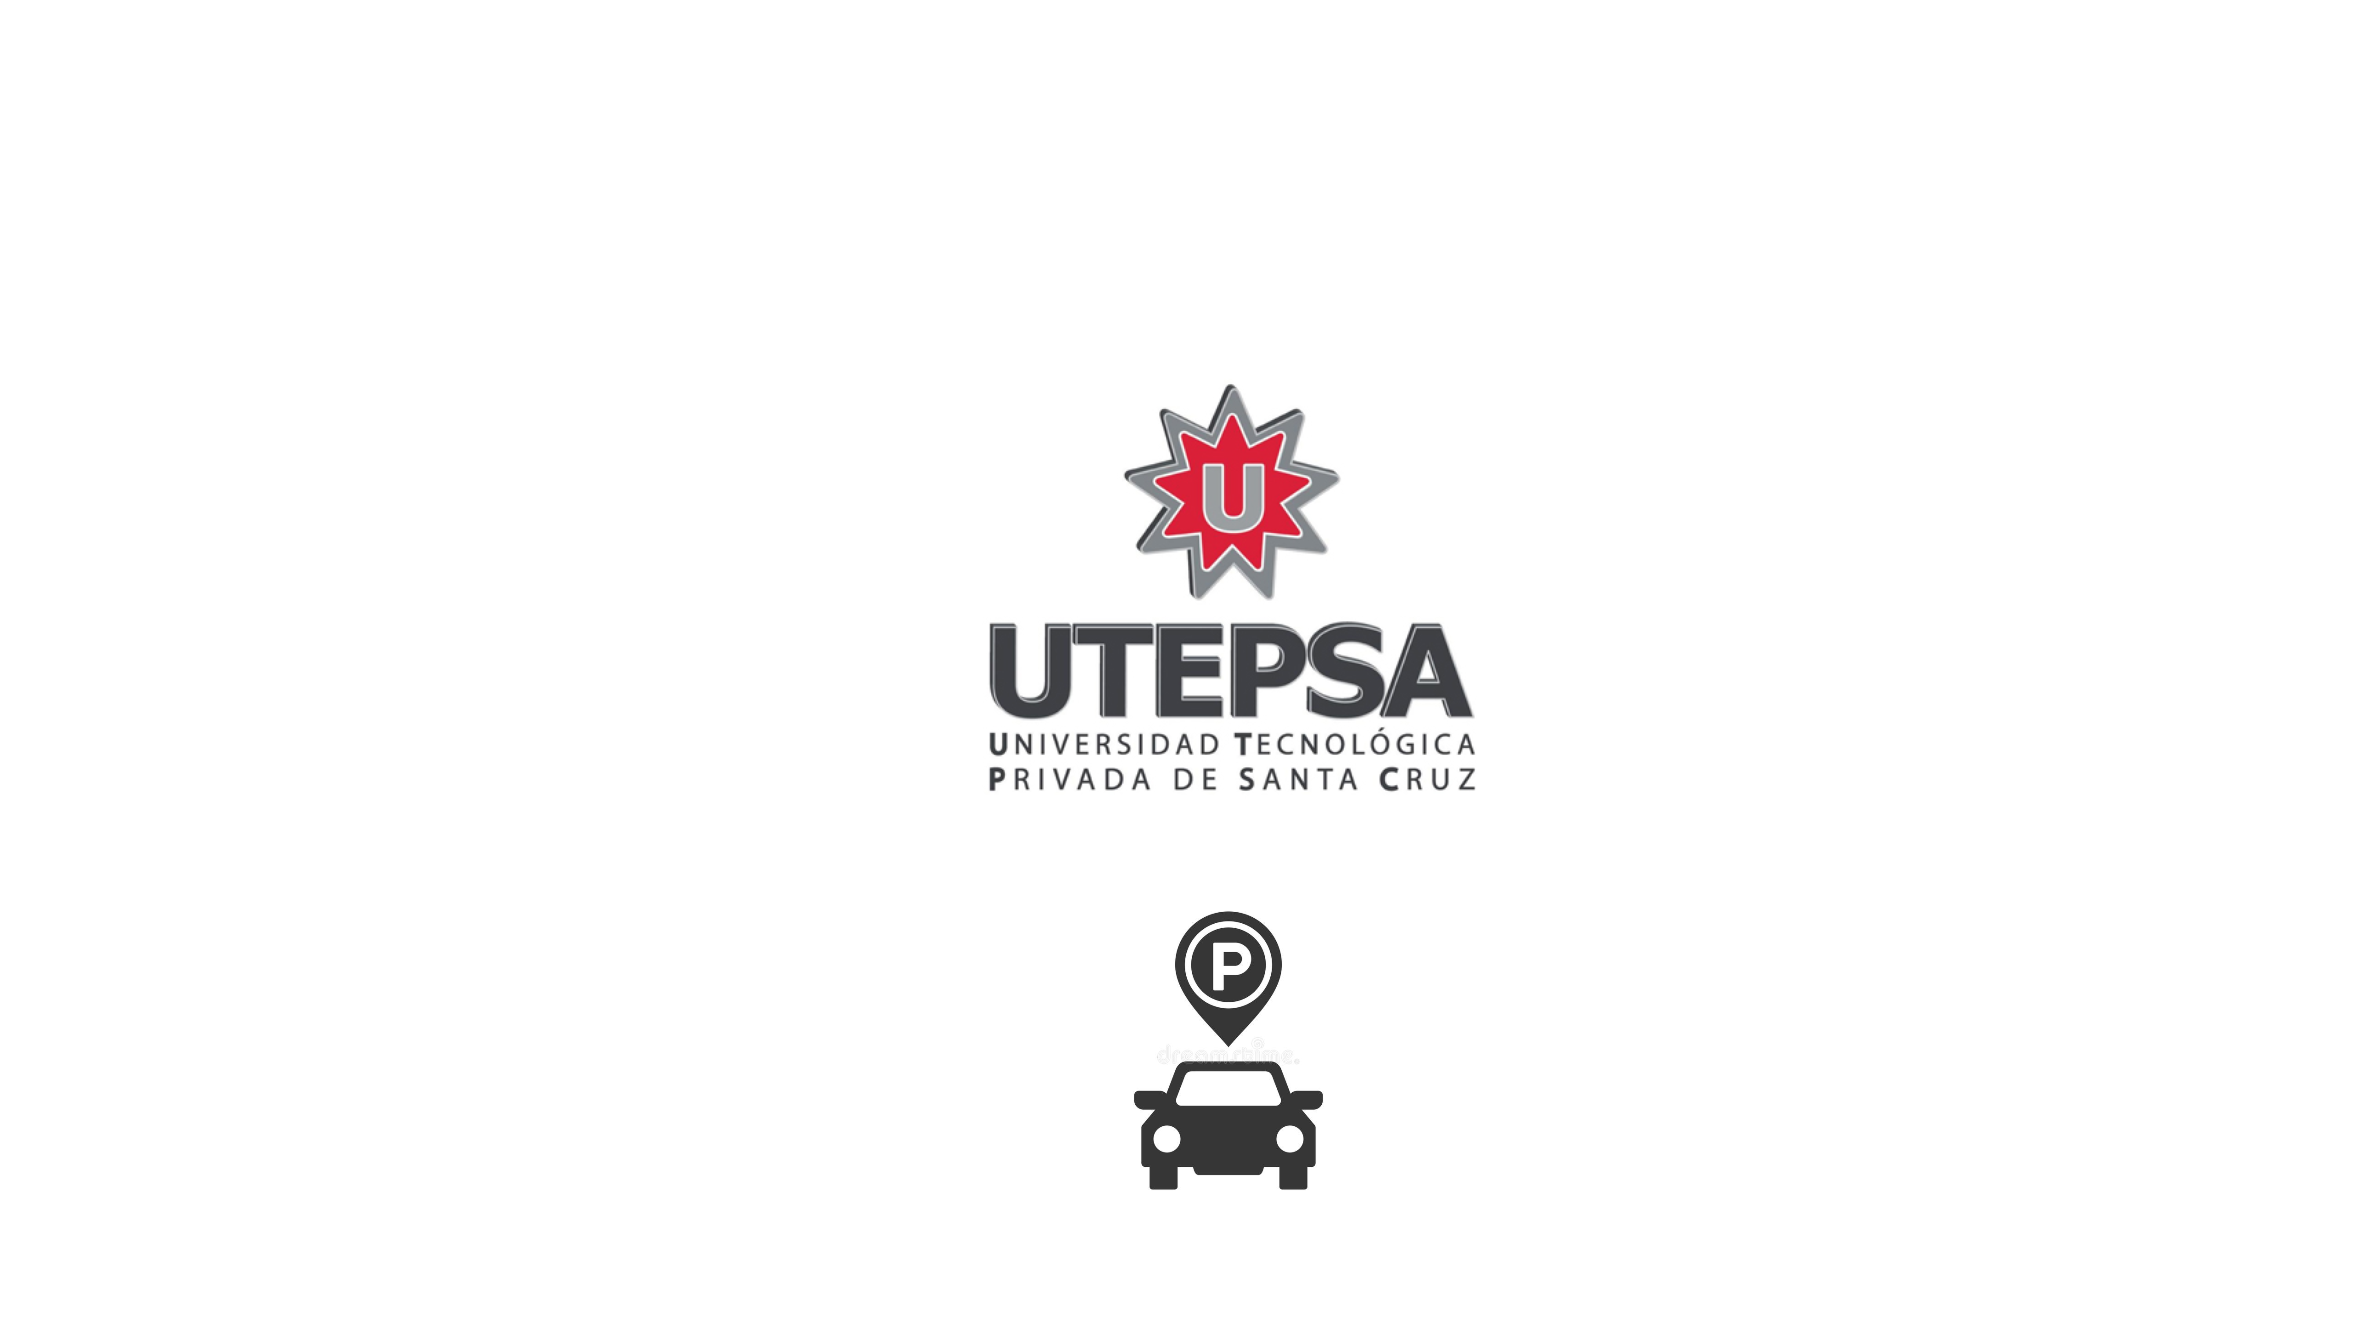
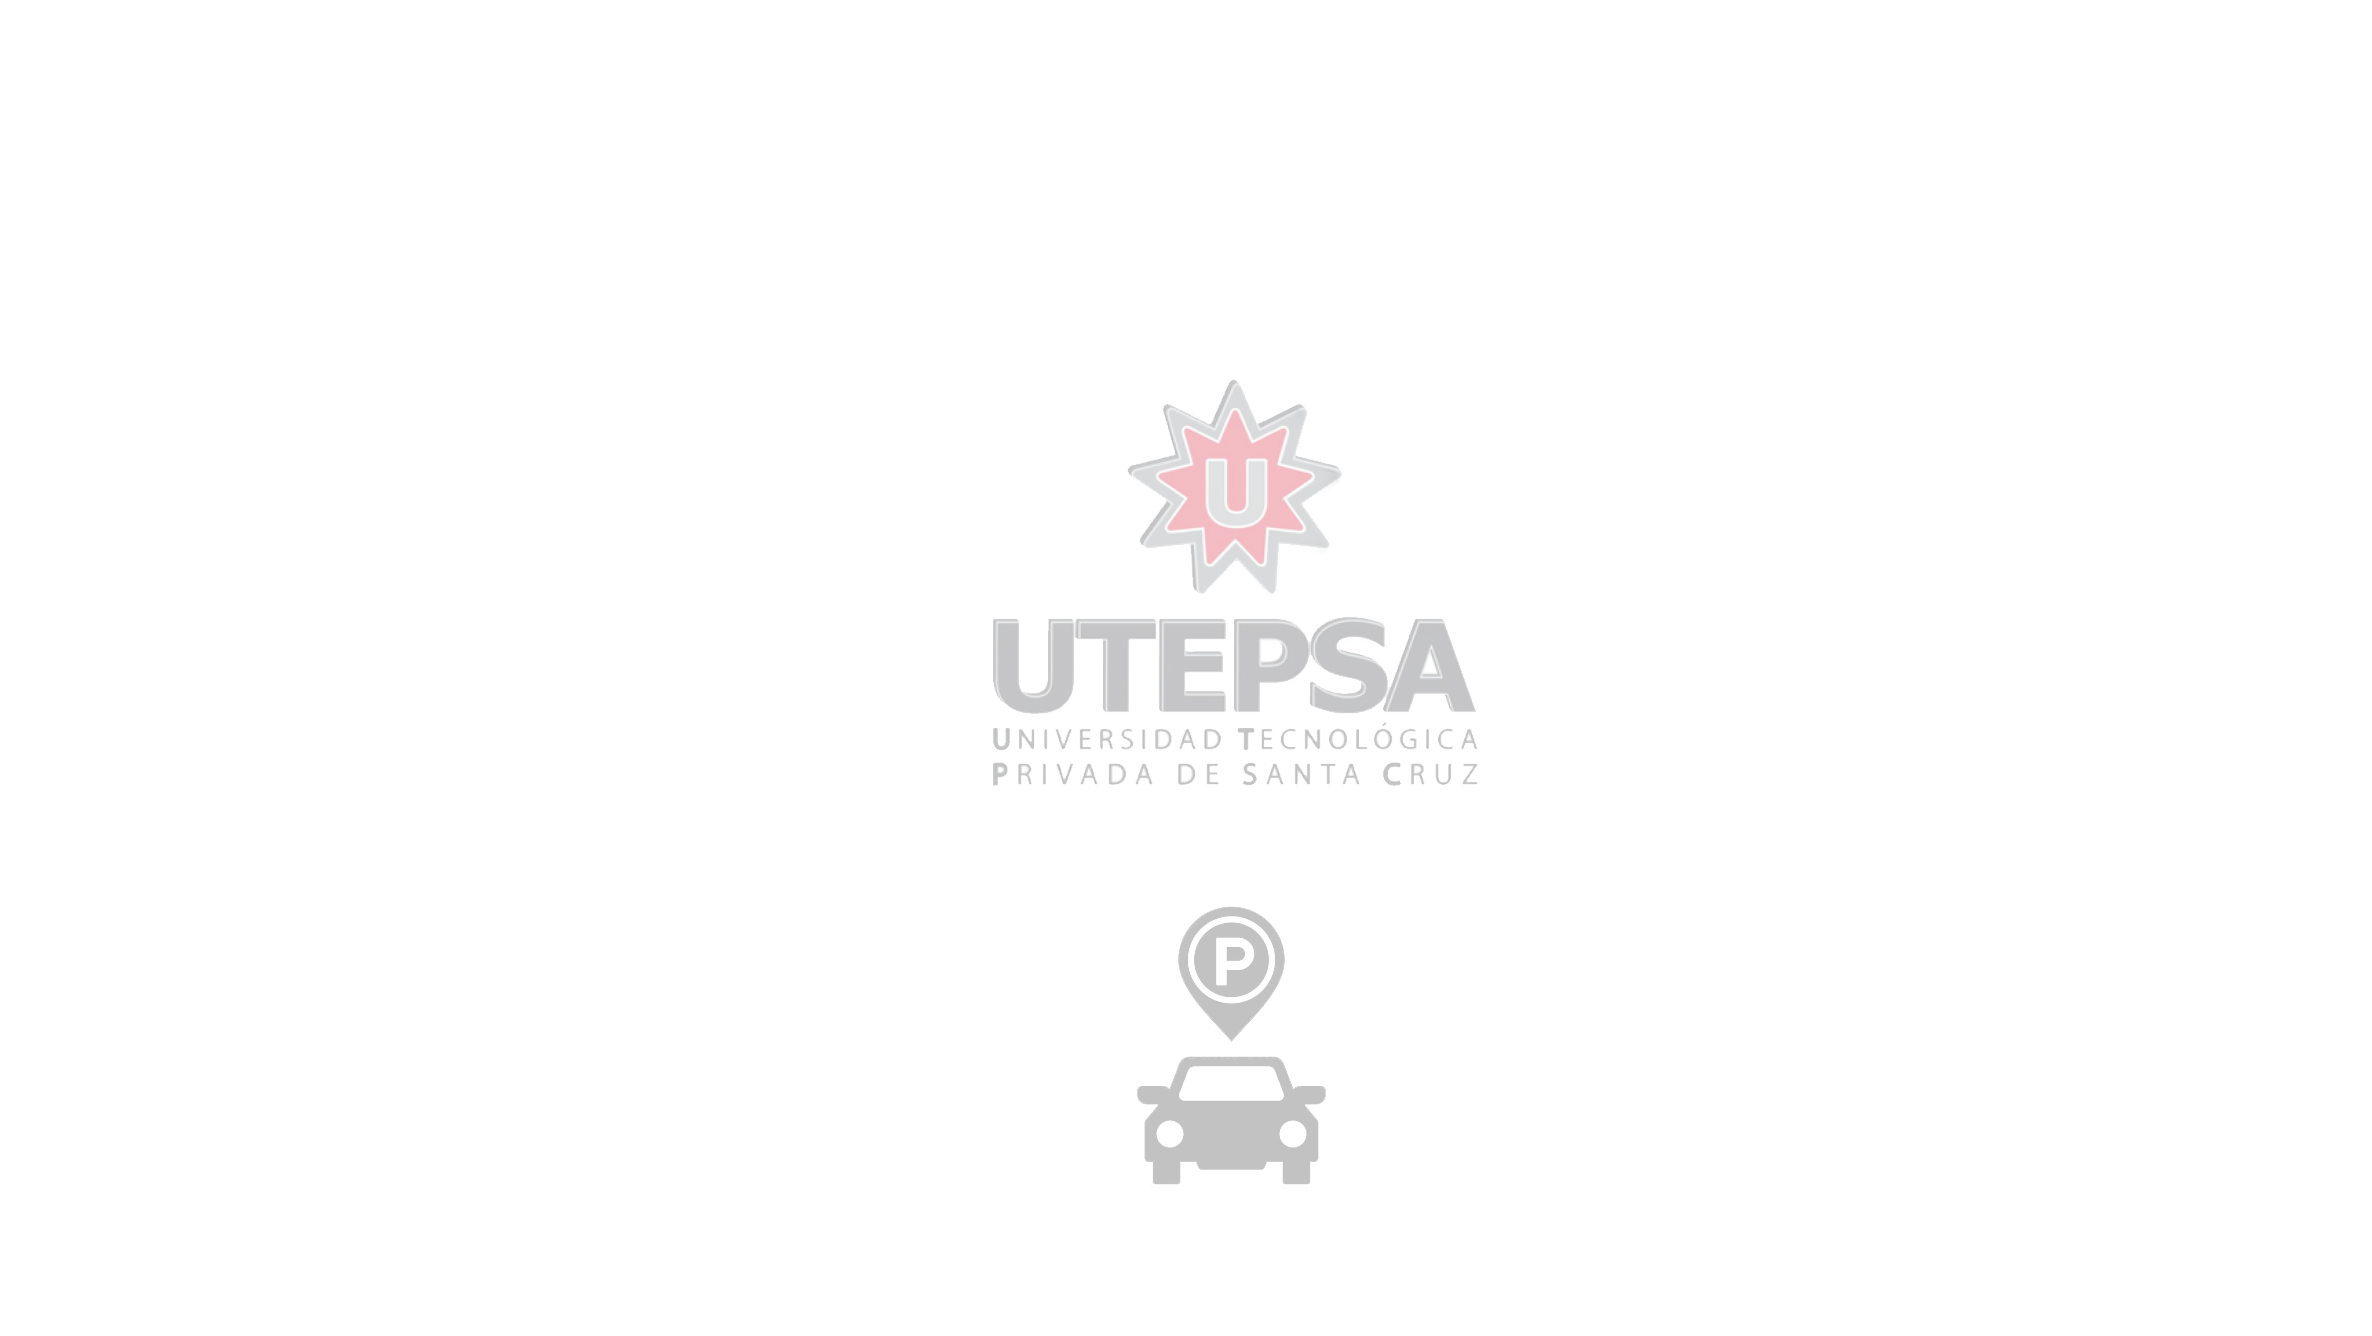
cambios colores fuentes

Changed region(s): [[0.4056, 0.2762, 0.6239, 0.6138], [0.468, 0.6751, 0.5616, 0.89]]

diff --git a/my_app/templates/comprar_paquete.html b/my_app/templates/comprar_paquete.html
@@ -1,27 +1,44 @@
 {% extends 'template.html' %}
 
 {% block content %}
-<div class="container text-light">
+<div class="container fs-3">
     <div class="row">
         <div class="col-md-6">
             <h1>Comprando: {{paquete.nombre}}</h1>
             <img src="{{paquete.qr.url}}" width="300" height="300">
+            <div class="fs-5">
+                <p>Pasos para la transferencia:</p>
+                <p>
+                    paso1
+                    escanea el codigo qr para realizar el pago
+                </p>
+                <p>
+                    paso2
+                    saca una captura de tu comprobante de pago
+                </p>
+                
+                <p>
+                    paso3
+                    sube la imagen de tu comprobante de pago y aguarde su activacion
+                </p>
+            </div>
+            
         </div>
         <div class="col-md-4">
             <h1>Datos del paquete</h1>
             Descripcion breve:
             <p>{{paquete.descripcion}}</p>
             Precio del paquete:
-            <p>{{paquete.precio}}</p>
+            <p>{{paquete.precio}} Bs</p>
             <form action="/comprar/{{paquete.id}}" method="post" enctype="multipart/form-data">
                 {% csrf_token %}
                 <input type="hidden" name="id" value="{{paquete.id}}">
                 <div class="mb-3">
-                    <label for="comprobante" class="form-label">Comprobante del pago</label>
+                    <label for="comprobante" class="form-label">Comprobante del pago:</label>
                     <input class="form-control" type="file" id="comprobante" name="comprobante" required>
                 </div>
 
-                <button type="submit" class="btn btn-success w-100">Comprar paquete</button>
+                <button type="submit" class="btn btn-black btn-lg w-100">Comprar paquete</button>
             </form>
         </div>
         <div class="col-md-2">

diff --git a/my_app/templates/crear_paquete.html b/my_app/templates/crear_paquete.html
@@ -24,19 +24,19 @@
             <input type="text" class="form-control" id="nombre" name="nombre">
         </div>
         <div class="mb-3">
-            <label for="descripcion" class="form-label">Descripcion</label>
+            <label for="descripcion" class="form-label">Descripcion del paquete</label>
             <input type="text" class="form-control" id="descripcion" name="descripcion">
         </div>
         <div class="mb-3">
-            <label for="precio" class="form-label">Precio</label>
+            <label for="precio" class="form-label">Precio del paquete</label>
             <input type="text" class="form-control" id="precio" name="precio">
         </div>
         <div class="mb-3">
-            <label for="qr" class="form-label">Qr</label>
+            <label for="qr" class="form-label">Qr de pago</label>
             <input class="form-control" type="file" id="qr" name="qr">
         </div>
         <div class="mb-3">
-            <label for="foto" class="form-label">Foto de perfil</label>
+            <label for="foto" class="form-label">Foto paquete</label>
             <input class="form-control" type="file" id="foto" name="foto">
         </div>
         <button type="submit" class="btn btn-black btn-lg btn-block">Crear Paquete</button>

diff --git a/my_app/templates/marcar_salidas.html b/my_app/templates/marcar_salidas.html
@@ -18,6 +18,7 @@
         <div class="row">
             {% if detalle_parqueos %}
                 {% for detalle_parqueo in detalle_parqueos %}
+                <br>
                 <div class="card text-center">
                     <div class="card-header">
                         Detalle Parqueo {{ detalle_parqueo.parqueo.nombre }}
@@ -31,12 +32,13 @@
                             {{ detalle_parqueo.vehiculo.color }}
                         </p>
                         <img src="{{ detalle_parqueo.vehiculo.foto.url }}" width="100" height="100">
-                        <a href="/marcar_salida/{{ detalle_parqueo.id }}" class="btn btn-primary w-100">Marcar Salida</a>
+                        <a href="/marcar_salida/{{ detalle_parqueo.id }}" class="btn btn-black btn-lg w-100">Marcar Salida</a>
                     </div>
                     <div class="card-footer text-muted">
                         Fecha Entrada: {{ detalle_parqueo.fecha_entrada }}
                     </div>
                 </div>
+                <br>
                 {% endfor %}
             {% else %}
                 <h1>No tienes movilidades parqueadas!</h1>

diff --git a/my_app/templates/activaciones.html b/my_app/templates/activaciones.html
@@ -20,8 +20,7 @@
 <div class="container text-dark">
     {% if compras %}
         {% for compra in compras %}
-        {{compra.user}}
-        {{compra.paquete}}
+        <br>
         <div class="card text-center">
             <div class="card-header">
                 {{compra.user.first_name}} {{compra.user.last_name}} ({{compra.user.tipo}}) - {{compra.paquete.nombre}} -
@@ -35,7 +34,7 @@
                     {{compra.paquete.descripcion}}
                 </p>
                 <p>
-                    <a href="{{compra.comprobante.url}}" class="btn btn-danger">Ver comprobante</a>
+                    <a href="{{compra.comprobante.url}}" class="btn btn-black btn-lg">Ver comprobante</a>
                 </p>
             </div>
             <div class="card-footer text-muted text-uppercase">
@@ -51,6 +50,7 @@
                 {% endif %}
             </div>
         </div>
+        <br>
         {% endfor %}
     {% else %}
         <h1>No hay Activaciones pendientes</h1>

diff --git a/my_app/templates/parquear.html b/my_app/templates/parquear.html
@@ -1,10 +1,10 @@
 {% extends 'template.html' %}
 
 {% block content %}
-<div class="container text-light">
+<div class="container fs-3">
     <div class="row">
         <div class="col-md-6">
-            <h1>Parqueando: {{parqueo.nombre}}</h1>
+            <h1>Parqueando en: {{parqueo.nombre}}</h1>
         </div>
         <div class="col-md-4">
             <h1>Datos del Parqueo</h1>
@@ -39,7 +39,7 @@
                     </select>
                 </div>
 
-                <button type="submit" class="btn btn-success w-100">Confirmar Parqueo</button>
+                <button type="submit" class="btn btn-black btn-lg w-100">Confirmar Parqueo</button>
             </form>
         </div>
     </div>

diff --git a/my_app/templates/parqueo.html b/my_app/templates/parqueo.html
@@ -40,7 +40,7 @@
                         <p class="card-text">
                             {{ parqueo.descripcion }}
                         </p>
-                        <a class="btn btn-primary w-100" href="/parquear/{{parqueo.id}}" role="button">Parquear</a>
+                        <a class="btn btn-black btn-lg w-100" href="/parquear/{{parqueo.id}}" role="button">Parquear</a>
                     </div>
                 </div>
                 {% else %}

diff --git a/my_app/templates/mis_suscripciones.html b/my_app/templates/mis_suscripciones.html
@@ -35,7 +35,9 @@
                 </div>
                 <div class="card-footer text-muted text-uppercase">
                     {% if compra.activo %}
-                        Activo
+                        <p class="text-success fs-4">
+                            Suscripcion {{compra.paquete.nombre}} "activada"
+                        </p>    
                     {% else %}
                         Inactivo
                     {% endif %}

diff --git a/my_app/templates/ver_salidas.html b/my_app/templates/ver_salidas.html
@@ -20,7 +20,7 @@
             <label for="fecha_salida">Seleccione la fecha de Salida</label>
             <input name="fecha_salida" id="fecha_salida" type="date" required/>
         </div>
-        <button type="submit" class="btn btn-danger w-100">Buscar</button>
+        <button type="submit" class="btn btn-black btn-lg w-100">Buscar</button>
     </form>
 
     {% if not detalle_parqueos %}

diff --git a/my_app/templates/navbar.html b/my_app/templates/navbar.html
@@ -1,6 +1,6 @@
 {% load static %}
 <nav class="navbar navbar-light navbar-expand-lg" style="background-color: #cc102c;">
-    <div class="container-fluid fs-4">
+    <div class="container-fluid fs-4 font-weight-bold">
         <a class="navbar-brand" href="/">
             <img src="{% static 'files/utepsa-logo.png'%}" width="200" height="70">
         </a>

diff --git a/my_app/templates/reportes_suscripciones_compradas.html b/my_app/templates/reportes_suscripciones_compradas.html
@@ -28,7 +28,7 @@
             <br>
             <input name="fecha_fin" id="fecha_fin" type="date" required />
         </div>
-        <button type="submit" class="btn btn-danger w-100">Buscar</button>
+        <button type="submit" class="btn btn-black btn-lg w-100">Buscar</button>
     </form>
 
     {% if not compras %}

diff --git a/my_app/views.py b/my_app/views.py
@@ -1,4 +1,5 @@
 from datetime import datetime
+from email.errors import MessageError
 from functools import total_ordering
 from django.shortcuts import render, redirect
 from django.contrib.auth import authenticate, login, logout
@@ -114,7 +115,7 @@ def registrar_vehiculo_view(request):
         new_vehiculo = Vehiculo.objects.create(placa=placa, modelo=modelo, color=color, user=user, tipo=tipo, foto=foto)
         new_vehiculo.save()
         messages.success(request, "Vehiculo registrado exitosamente!")
-        return render(request, "registrar_vehiculo.html")
+        return redirect("mis_vehiculos")
 
 def mis_vehiculos_view(request):
     vehiculos = request.user.vehiculo_set.all()
@@ -144,17 +145,23 @@ def comprar_view(request, id):
 
         compra_paquete.save()
         messages.success(request, "Compra realizada exitosamente!")
-        return render(request, "comprar_paquetes.html")
+        return redirect("mis_suscripciones")
 
 def mis_suscripciones_view(request):
-    compras = CompraPaquete.objects.filter(user=request.user, activo=True)
-    if not compras:
+
+    compras_pendientes = CompraPaquete.objects.filter(user=request.user, pendiente=True)
+    if compras_pendientes:
+        messages.warning(request, "Tu suscripcion esta siendo revisada para su activacion contacte con el administrador 7701626")
+        return redirect("comprar_paquetes")
+
+    compras_activas = CompraPaquete.objects.filter(user=request.user, activo=True, pendiente=False)
+    if not compras_activas:
         messages.warning(request, "No tienes suscripciones registradas compra almenos una suscripcion para continuar")
         return redirect("comprar_paquetes")
-    return render(request, "mis_suscripciones.html", {"compras": compras})
+    return render(request, "mis_suscripciones.html", {"compras": compras_activas})
 
 def activaciones_view(request):
-    compras = CompraPaquete.objects.filter(activo=False)
+    compras = CompraPaquete.objects.filter(pendiente=True)
     return render(request, "activaciones.html", {"compras": compras})
 
 def suscripciones_vencidas_view(request):
@@ -178,6 +185,7 @@ def activar_view(request, id):
     if request.method == "POST":
         compra_paquete = CompraPaquete.objects.get(id=id)
         compra_paquete.activo = True
+        compra_paquete.pendiente = False
         compra_paquete.user.suscrito = True
         compra_paquete.user.save()
         compra_paquete.save()

diff --git a/my_app/migrations/0001_initial.py b/my_app/migrations/0001_initial.py
@@ -1,4 +1,4 @@
-# Generated by Django 3.2.9 on 2022-01-20 18:26
+# Generated by Django 3.2.9 on 2022-01-21 00:41
 
 import datetime
 from django.conf import settings
@@ -69,7 +69,7 @@ class Migration(migrations.Migration):
                 ('id', models.BigAutoField(auto_created=True, primary_key=True, serialize=False, verbose_name='ID')),
                 ('nombre', models.CharField(max_length=50)),
                 ('descripcion', models.TextField()),
-                ('fecha_creacion', models.DateTimeField(default=datetime.datetime(2022, 1, 20, 14, 26, 13, 341637))),
+                ('fecha_creacion', models.DateTimeField(default=datetime.datetime(2022, 1, 20, 20, 41, 41, 873620))),
                 ('activo', models.BooleanField(default=True)),
             ],
             options={
@@ -105,7 +105,7 @@ class Migration(migrations.Migration):
             name='DetalleParqueo',
             fields=[
                 ('id', models.BigAutoField(auto_created=True, primary_key=True, serialize=False, verbose_name='ID')),
-                ('fecha_entrada', models.DateTimeField(default=datetime.datetime(2022, 1, 20, 14, 26, 13, 342636))),
+                ('fecha_entrada', models.DateTimeField(default=datetime.datetime(2022, 1, 20, 20, 41, 41, 873620))),
                 ('fecha_salida', models.DateTimeField(null=True)),
                 ('parqueo', models.ForeignKey(on_delete=django.db.models.deletion.CASCADE, to='my_app.parqueo')),
                 ('user', models.ForeignKey(on_delete=django.db.models.deletion.CASCADE, to=settings.AUTH_USER_MODEL)),
@@ -122,6 +122,7 @@ class Migration(migrations.Migration):
                 ('fecha_compra', models.DateTimeField(auto_now_add=True)),
                 ('tipo_pago', models.CharField(max_length=50)),
                 ('activo', models.BooleanField(default=False)),
+                ('pendiente', models.BooleanField(default=True)),
                 ('comprobante', models.ImageField(blank=True, null=True, upload_to='comprobantes')),
                 ('paquete', models.ForeignKey(on_delete=django.db.models.deletion.CASCADE, to='my_app.paquete')),
                 ('user', models.ForeignKey(on_delete=django.db.models.deletion.CASCADE, to=settings.AUTH_USER_MODEL)),
